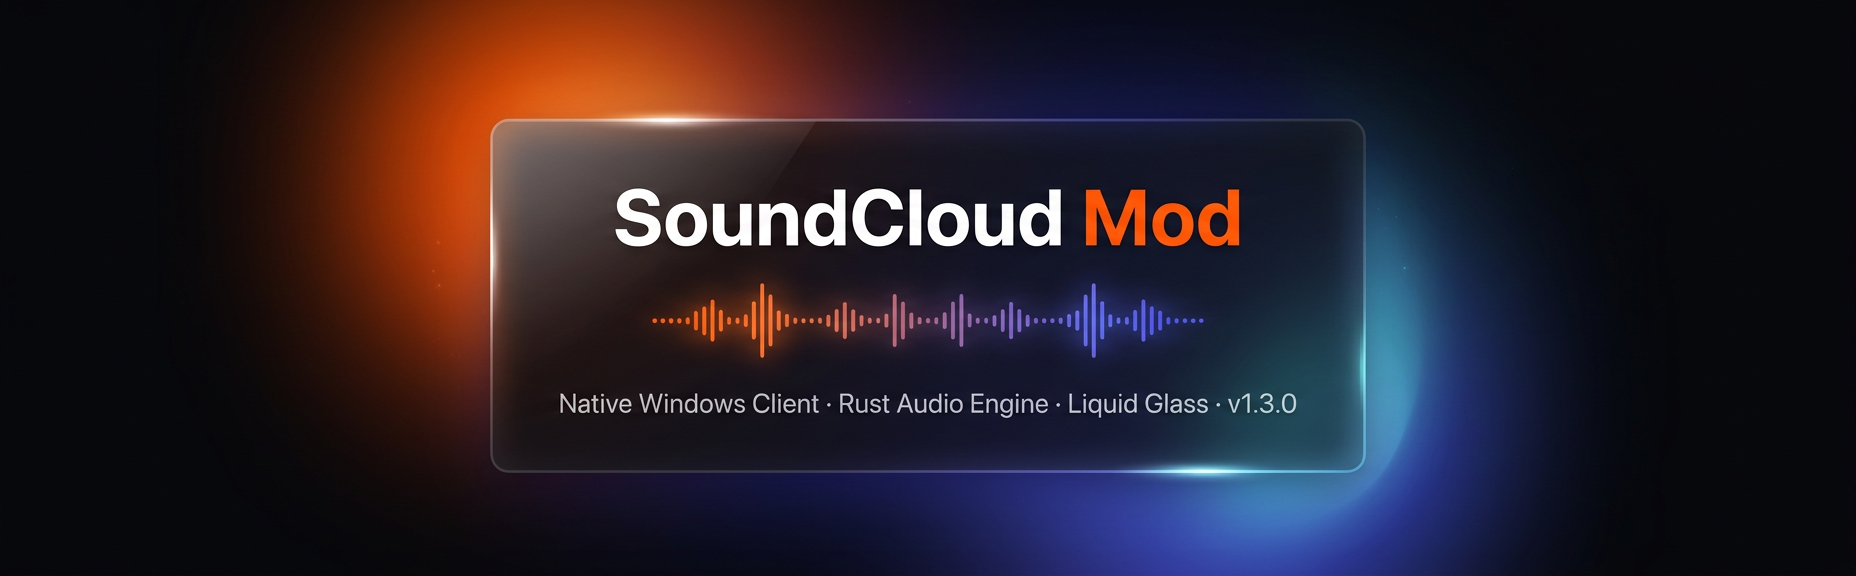
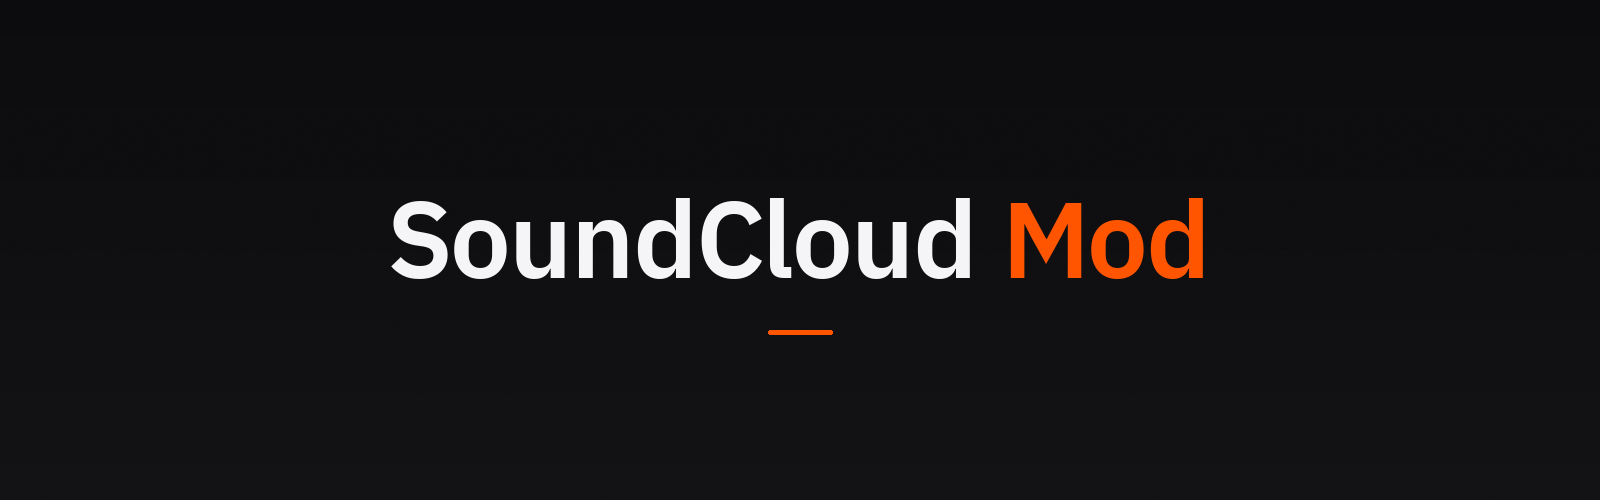
docs: новая обложка и переписанный README
Обложка: docs/banner.png 1600×500 — тёмное поле с едва заметным
градиентом и печатным зерном, вордмарк IBM Plex Sans SemiBold
(«SoundCloud» белым, «Mod» акцентом #FF5500), одна короткая линия.
Без версии, без градиентных шаров, без подзаголовков. 1.7 МБ → 302 КБ.

README: структура с оглавлением, возможности сгруппированы по смыслу
(плеер / интерфейс / библиотека и офлайн / волна и вход), таблицы
установки по платформам, реальные команды сборки. Убраны неверные
утверждения прежней версии: «бесплатная Star-аура», импорт из Яндекс
Музыки, версия в обложке.

diff --git a/README.md b/README.md
@@ -1,149 +1,144 @@
 <div align="center">
 
-<img src="docs/banner.png" alt="SoundCloud Mod — Desktop Client" width="100%" />
-
-<br/>
-<br/>
-
-[![Release](https://img.shields.io/github/v/release/LazerProOk1/soundcloud_mod?style=for-the-badge&color=ff5500&label=Release)](https://github.com/LazerProOk1/soundcloud_mod/releases/latest)
-[![Windows](https://img.shields.io/badge/Windows-NSIS%20%2F%20MSI%20%2F%20Portable-0078D4?style=for-the-badge&logo=windows)](https://github.com/LazerProOk1/soundcloud_mod/releases/latest)
-[![Linux](https://img.shields.io/badge/Linux-DEB%20%2F%20AppImage%20%2F%20RPM-E95420?style=for-the-badge&logo=ubuntu&logoColor=white)](https://github.com/LazerProOk1/soundcloud_mod/releases/latest)
-[![Tauri](https://img.shields.io/badge/Tauri-2.0-FFC131?style=for-the-badge&logo=tauri&logoColor=111)](https://tauri.app)
-[![React](https://img.shields.io/badge/React-19-61DAFB?style=for-the-badge&logo=react&logoColor=111)](https://react.dev)
-[![Rust](https://img.shields.io/badge/Rust-Audio%20Engine-EA580C?style=for-the-badge&logo=rust)](https://www.rust-lang.org)
-[![License](https://img.shields.io/badge/License-MIT-334155?style=for-the-badge)](LICENSE)
+<img src="docs/banner.png" alt="SoundCloud Mod" width="100%" />
 
 <br/>
 
-**Нативный клиент SoundCloud для Windows и Linux в эстетике Liquid Glass.**  
-Без рекламы и вкладки браузера: собственный аудиодвижок на Rust, локальный LRU-кэш треков,  
-синхронизированная караоке-лирика, бесплатная **Star-аура**, персональная волна **SoundWave** и **Discord Rich Presence**.
+[![Release](https://img.shields.io/github/v/release/LazerProOk1/soundcloud_mod?style=flat-square&color=ff5500&label=release)](https://github.com/LazerProOk1/soundcloud_mod/releases/latest)
+[![Windows](https://img.shields.io/badge/Windows-NSIS%20%C2%B7%20MSI%20%C2%B7%20Portable-0078D4?style=flat-square&logo=windows&logoColor=white)](https://github.com/LazerProOk1/soundcloud_mod/releases/latest)
+[![Linux](https://img.shields.io/badge/Linux-DEB%20%C2%B7%20AppImage%20%C2%B7%20RPM-E95420?style=flat-square&logo=ubuntu&logoColor=white)](https://github.com/LazerProOk1/soundcloud_mod/releases/latest)
+[![Tauri](https://img.shields.io/badge/Tauri-2-FFC131?style=flat-square&logo=tauri&logoColor=black)](https://tauri.app)
+[![React](https://img.shields.io/badge/React-19-61DAFB?style=flat-square&logo=react&logoColor=black)](https://react.dev)
+[![Rust](https://img.shields.io/badge/Rust-audio%20engine-EA580C?style=flat-square&logo=rust&logoColor=white)](https://www.rust-lang.org)
+[![License](https://img.shields.io/badge/license-MIT-334155?style=flat-square)](LICENSE)
+
+Десктопный клиент SoundCloud для Windows и Linux: без браузера, рекламы и вкладок.
+Свой аудиодвижок на Rust, офлайн-кэш треков, синхронизированный текст и персональная волна.
 
 </div>
 
----
+## Содержание
+
+- [Возможности](#возможности)
+- [Горячие клавиши](#горячие-клавиши)
+- [Установка](#установка)
+- [Сборка из исходников](#сборка-из-исходников)
+- [Технологии](#технологии)
+- [Структура репозитория](#структура-репозитория)
+- [Лицензия](#лицензия)
 
 ## Возможности
 
-<table>
-<tr>
-<td width="50%" valign="top">
+### Плеер
 
-### Аудиодвижок (Rust)
-- Собственный плеер на базе `rodio` + декодирование MP3/OGG/Opus без браузерного `<audio>`
-- **10-полосный эквалайзер** с пресетами, ReplayGain-нормализация и кроссфейд
-- Скорость воспроизведения, таймер сна, повтор, shuffle и перемотка колесом мыши (`Shift` — ±15 с)
-- Глобальные медиаклавиши и управление из системного трея
+- Собственный движок на `rodio` и Symphonia: MP3, OGG, Opus и AAC/MP4 без браузерного `<audio>`.
+- **10-полосный эквалайзер** (32 Гц – 16 кГц) с пресетами, ReplayGain и кроссфейдом.
+- Скорость воспроизведения, таймер сна, повтор, перемешивание, перемотка колесом мыши (`Shift` — по 15 с).
+- Медиаклавиши через `souvlaki`, управление из системного трея и полноэкранный режим.
+- **Discord Rich Presence**: трек, исполнитель, обложка и таймер.
 
-### Интерфейс Liquid Glass
-- Полупрозрачные стеклянные панели поверх живого mesh-градиента и динамической палитры обложки
-- Режим без размытия (**No-Glass**) в настройках для максимальной производительности
-- Панель «Сейчас играет» справа, полноэкранный плеер и мини-плеер поверх окон
-- Свои шрифты (системные или из файла), пользовательский CSS, масштаб UI (`Ctrl` + колесо)
-- Русский и английский интерфейс
+### Интерфейс
 
-</td>
-<td width="50%" valign="top">
+- Стеклянные панели поверх живого градиента; палитра интерфейса подстраивается под обложку трека.
+- Режим **No-Glass** без размытия — для слабых машин и тех, кому нужна максимальная производительность.
+- Панель «Сейчас играет» справа, полноэкранный плеер и компактный режим окна.
+- Темы оформления, аура оформления, свои обои, шрифты (системные или из файла), пользовательский CSS.
+- Масштаб интерфейса (`Ctrl` + колесо), русский и английский языки.
 
-### Библиотека и офлайн-кэш
-- Любимые треки, плейлисты, подписки и история прослушиваний
-- Суперлайки, локальный список дизлайков и собственный порядок любимых треков
-- Умный **кэш аудио и предзагрузка очереди** (параллельная загрузка HLS/progressive, защита пролайканных треков от вытеснения)
-- Импорт библиотеки из **Яндекс Музыки** и сохранение треков в файл
+### Библиотека и офлайн
 
-### SoundWave, лирика и интеграции
-- **SoundWave** — бесконечная персональная волна рекомендаций от трека или исполнителя с фильтром языков
-- Синхронизированный текст с построчной анимацией и переходом по клику на строку (**LRCLib** + **SoundCloud**), FFT-визуализатор
-- **Discord Rich Presence** с обложкой, таймером и названием трека
-- Авторизация через аккаунт SoundCloud или **QR-код** с другого устройства
+- Лайки, плейлисты, подписки, история прослушиваний; суперлайки, дизлайки и собственный порядок любимых треков.
+- **Кэш треков** с предзагрузкой очереди: параллельная загрузка HLS и progressive, пролайканные треки защищены от вытеснения.
+- Список офлайн-треков и работа без сети на закэшированном материале.
+- Импорт по ссылке из SoundCloud, Zaycev, YouTube и Audius; сохранение трека в файл; резервная копия профиля.
 
-</td>
-</tr>
-</table>
+### Волна, текст и вход
 
----
+- **SoundWave** — бесконечная персональная волна от трека или исполнителя, с настройкой языков, скрытием прослушанного и обратной связью.
+- Синхронизированный текст: построчная анимация, переход по строке, FFT-визуализатор (LRCLib и SoundCloud).
+- Вход в аккаунт SoundCloud или по **QR-коду** с телефона.
+- Ссылка SoundCloud, вставленная в поиск, открывается внутри приложения.
 
 ## Горячие клавиши
 
 | Клавиша | Действие | Клавиша | Действие |
 |---|---|---|---|
-| `Space` | Пауза / воспроизведение | `Q` | Открыть / закрыть очередь |
-| `←` / `→` | Перемотка на ±5 с | `L` | Открыть / закрыть лирику |
-| `↑` / `↓` | Громкость (ускорение при удержании) | `[` | Свернуть / развернуть боковую панель |
-| `N` / `P` | Следующий / предыдущий трек | `F11` | Полноэкранный режим |
-| `S` / `R` | Перемешивание / повтор | `/` или `Ctrl + K` | Поиск |
-| `M` | Выключить / включить звук | `Ctrl + /` | Показать все горячие клавиши |
-
----
+| `Space` | Пауза / воспроизведение | `Q` | Очередь |
+| `←` / `→` | Перемотка на ±5 с | `L` | Текст песни |
+| `↑` / `↓` | Громкость (ускоряется при удержании) | `[` | Боковая панель |
+| `N` / `P` | Следующий / предыдущий трек | `F11` | Полный экран |
+| `S` / `R` | Перемешивание / повтор | `Esc` | Закрыть панель |
+| `M` | Выключить звук | `/` или `Ctrl + K` | Поиск |
+| `Ctrl + /` | Все горячие клавиши | | |
 
 ## Установка
 
-### Windows (10 / 11 x64)
-- **Установщик (NSIS):** скачайте `*_x64-setup.exe` со страницы [Releases](https://github.com/LazerProOk1/soundcloud_mod/releases/latest) и запустите установку. Если Windows SmartScreen покажет предупреждение о неизвестном издателе — нажмите **«Подробнее» → «Выполнить в любом случае»**.
-- **MSI:** альтернативный установщик `*_x64_*.msi` для развёртывания через групповые политики.
-- **Portable:** скачайте `*-windows-x64-portable.zip`, распакуйте в любую папку и запускайте `SoundCloud Mod.exe` без установки.
+Готовые сборки — на странице [Releases](https://github.com/LazerProOk1/soundcloud_mod/releases/latest).
 
-### Linux (Ubuntu / Debian / Fedora)
-- **Ubuntu / Debian:** скачайте `.deb` (`sudo apt install ./SoundCloud*.deb`) или универсальный `.AppImage` (`chmod +x SoundCloud*.AppImage && ./SoundCloud*.AppImage`). Для Fedora / openSUSE — `.rpm` (`sudo dnf install ./SoundCloud*.rpm`). [Flatpak-манифест](.github/flatpak/io.github.LazerProOk1.soundcloudmod.yml) есть в репозитории для самостоятельной сборки.
+**Windows 10 / 11 (x64)**
 
-> Приложение устанавливается с отдельным идентификатором (`com.lazerprook1.soundcloudmod`) и хранит настройки и кэш независимо от других клиентов.
+| Файл | Что это |
+|---|---|
+| `*_x64-setup.exe` | Установщик NSIS. При предупреждении SmartScreen — «Подробнее» → «Выполнить в любом случае». |
+| `*_x64_*.msi` | MSI-пакет для развёртывания. |
+| `*-windows-x64-portable.zip` | Портативная версия: распаковать и запустить `SoundCloud Mod.exe`. |
 
-**Системные требования:** Windows 10 / 11 (x64, WebView2 Runtime) или Linux x64 (`libwebkit2gtk-4.1`), ~200 МБ свободного места.
+**Linux (x64)**
 
----
+| Файл | Что это |
+|---|---|
+| `*.deb` | `sudo apt install ./SoundCloud*.deb` — Ubuntu, Debian |
+| `*.AppImage` | `chmod +x SoundCloud*.AppImage && ./SoundCloud*.AppImage` |
+| `*.rpm` | `sudo dnf install ./SoundCloud*.rpm` — Fedora, openSUSE |
+
+Flatpak собирается из манифеста [`.github/flatpak/io.github.LazerProOk1.soundcloudmod.yml`](.github/flatpak/io.github.LazerProOk1.soundcloudmod.yml).
+
+**Требования:** Windows 10/11 x64 с WebView2 Runtime или Linux x64 с `libwebkit2gtk-4.1`; около 200 МБ на диске. Приложение ставится с отдельным идентификатором `com.lazerprook1.soundcloudmod` и хранит настройки и кэш отдельно от других клиентов.
 
 ## Сборка из исходников
 
-Необходимы **Node.js 20+**, **pnpm 10+** и **Rust (stable)**.
+Нужны **Node.js 20+**, **pnpm 10+** и **Rust (stable)**.
 
 ```bash
 git clone https://github.com/LazerProOk1/soundcloud_mod.git
 cd soundcloud_mod/desktop
 pnpm install
+pnpm tauri dev     # запуск с hot-reload
 ```
 
-Запуск в режиме разработки (hot-reload интерфейса + Rust-бэкенд):
+Проверки и сборка:
 
 ```bash
-pnpm tauri dev
+pnpm check                         # Biome: линтер и формат
+pnpm build                         # tsc + Vite
+node --experimental-strip-types --test src/lib/__tests__/*.test.ts
+pnpm tauri build                   # установщик в src-tauri/target/release/bundle/
 ```
 
-Проверка кода и сборка NSIS-установщика:
+## Технологии
 
-```bash
-pnpm check         # Biome lint + format
-pnpm build         # TypeScript + Vite production build
-pnpm tauri build   # Итоговый установщик в desktop/src-tauri/target/release/bundle/nsis/
-```
-
----
-
-## Технологический стек
-
-| Слой | Технологии |
+| Слой | Что используется |
 |---|---|
-| Оболочка | [Tauri 2](https://tauri.app) (Rust) |
+| Оболочка | Tauri 2, Rust 2021 |
 | Интерфейс | React 19, TypeScript, Tailwind CSS 4 |
-| Состояние и запросы | Zustand 5, TanStack Query 5, dnd-kit |
-| Аудио на Rust | `rodio`, Symphonia / Opus, 10-полосный EQ, ReplayGain, FFT-анализатор |
-| Линтер и сборка | Biome, Vite, NSIS |
-
----
+| Состояние и данные | Zustand, TanStack Query, dnd-kit |
+| Аудио | `rodio`, Symphonia, Opus, 10-полосный EQ, ReplayGain, FFT-анализатор |
+| Сборка | Vite, Biome, `cargo` |
+| Сервер | Rust, Axum, PostgreSQL, Redis, NATS, Qdrant |
 
 ## Структура репозитория
 
 ```text
 soundcloud_mod/
-├── desktop/
-│   ├── src/              # React 19 UI: страницы, Liquid Glass компоненты, stores, lib
-│   └── src-tauri/        # Rust: audio engine, track_cache, image_cache, Discord RPC, tray
-├── backend/              # Серверная часть (Rust/Axum прокси и кэш к API SoundCloud)
-└── docs/                 # Графические материалы для README
+├── desktop/                 # Приложение
+│   ├── src/                 # React: страницы, компоненты, stores, lib
+│   └── src-tauri/           # Rust: audio, track_cache, network, discord, tray
+├── backend/                 # Серверная часть: прокси и кэш SoundCloud, рекомендации, лирика
+├── docs/                    # Материалы для README и аудиты кодовой базы
+└── .github/                 # CI, Flatpak-манифест
 ```
 
----
+## Лицензия
 
-## Благодарности и лицензия
-
-- Синхронизированная лирика предоставляется через [LRCLib](https://lrclib.net).
-- Распространяется под лицензией [MIT](LICENSE). Проект не аффилирован с SoundCloud; SoundCloud является товарным знаком SoundCloud Global Limited & Co. KG.
+[MIT](LICENSE). Проект не связан с SoundCloud; SoundCloud — товарный знак SoundCloud Global Limited & Co. KG.
+Синхронизированный текст предоставляется через [LRCLib](https://lrclib.net).
